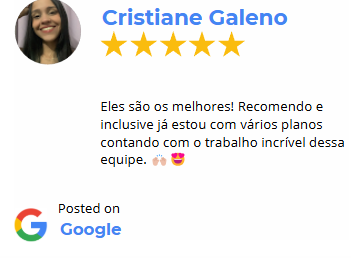
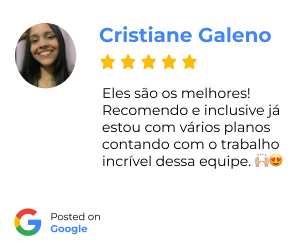
Finalizando as últimas estilizações da página, em seguida iniciar a responsividade

diff --git a/src/components/GoogleComments/styles.ts b/src/components/GoogleComments/styles.ts
@@ -4,6 +4,9 @@ export const GoogleWrapper = styled.div`
 	width: 100%;
 	height: auto;
 	background-color: white;
+	display: flex;
+	flex-direction: column;
+	align-items: center;
 `;
 
 export const GoogleTitle = styled.h1`
@@ -11,17 +14,26 @@ export const GoogleTitle = styled.h1`
 	font-size: 2rem;
 	font-family: 'Montserrat', serif;
 	font-weight: 300;
-	padding: 1rem;
+	padding: 2rem;
+	width: 100%;
 `;
 
 export const GoogleWrapperContainer = styled.div`
 	display: flex;
-	width: 100%;
-	height: auto;
+	flex-wrap: wrap;
+	justify-content: center;
+	width: 50%;
+	gap: 1rem;
 `;
 
 export const GoogleComments = styled.img`
-	display: flex;
+	flex: 0 0 calc(50% - 0.5rem);
 	padding: 0.8rem;
-	width: 50%;
+	width: 100%;
+	box-shadow: 0 4px 8px rgba(0, 0, 0, 0.1);
+
+	&:hover {
+		box-shadow: 0 4px 8px rgba(0, 0, 0, 0.2);
+		transition: 0.1s;
+	}
 `;

diff --git a/src/components/Footer/styles.ts b/src/components/Footer/styles.ts
@@ -3,7 +3,8 @@ import styled from 'styled-components';
 export const FooterWrapper = styled.div`
 	width: 100%;
 	height: auto;
-	background-color: #fffdf0;
+	background-color: #eff3ea;
+	margin-top: 2rem;
 `;
 
 export const FooterParagraph = styled.p`

diff --git a/src/components/Cards/ServiceCardStyle.ts b/src/components/Cards/ServiceCardStyle.ts
@@ -21,7 +21,7 @@ export const CardContainer = styled.div`
 	width: 100%;
 	height: auto;
 	padding-top: 1rem;
-	background-color: whitesmoke;
+	background-color: #eff3ea;
 `;
 
 export const CardsWrapper = styled.div`
